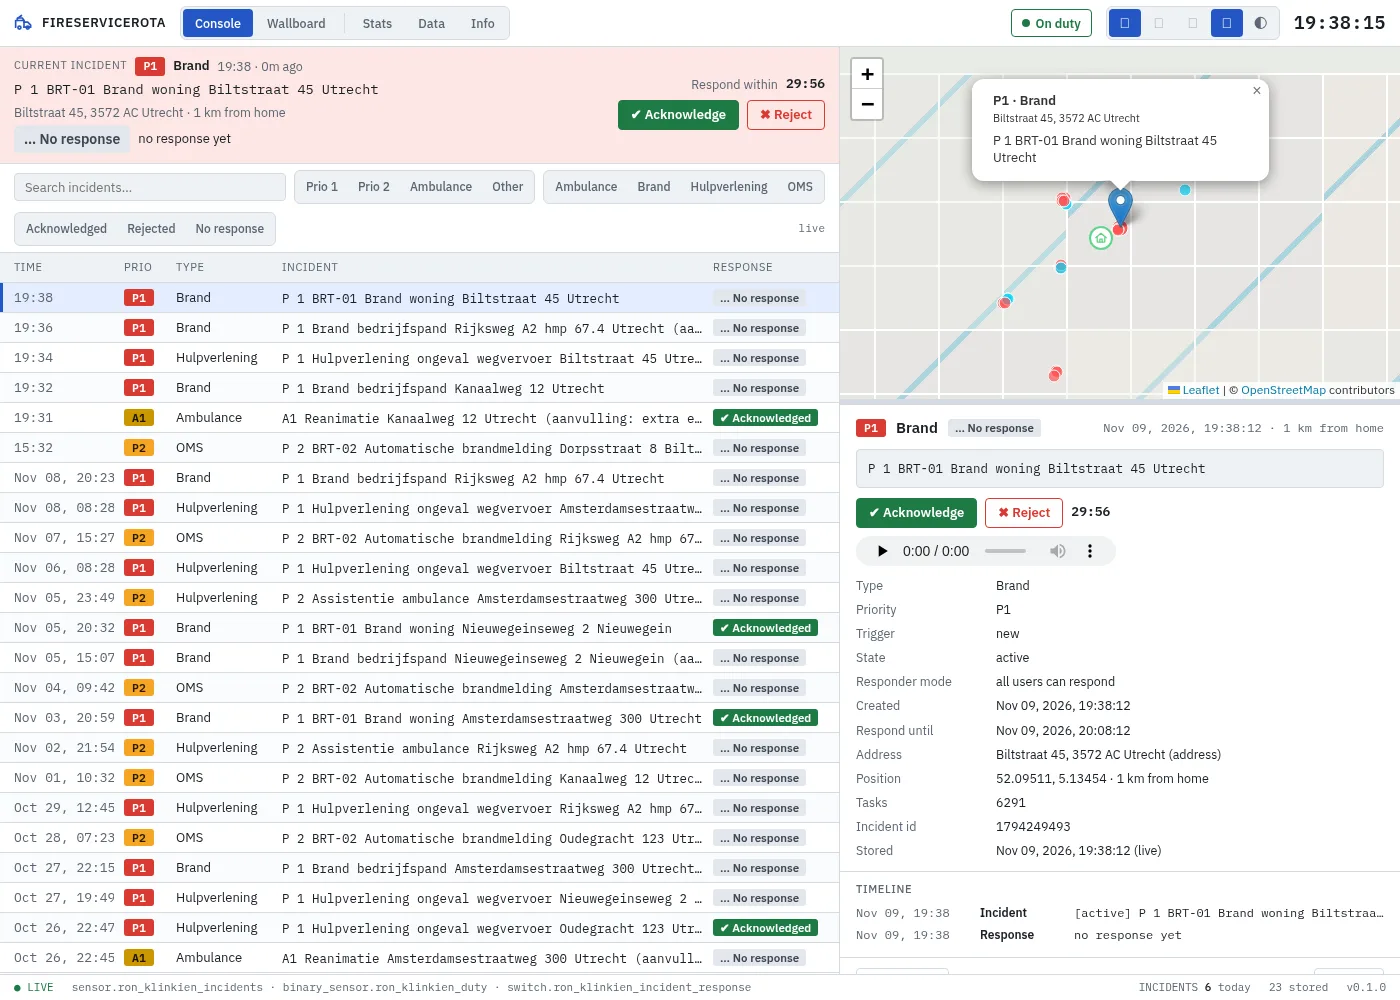
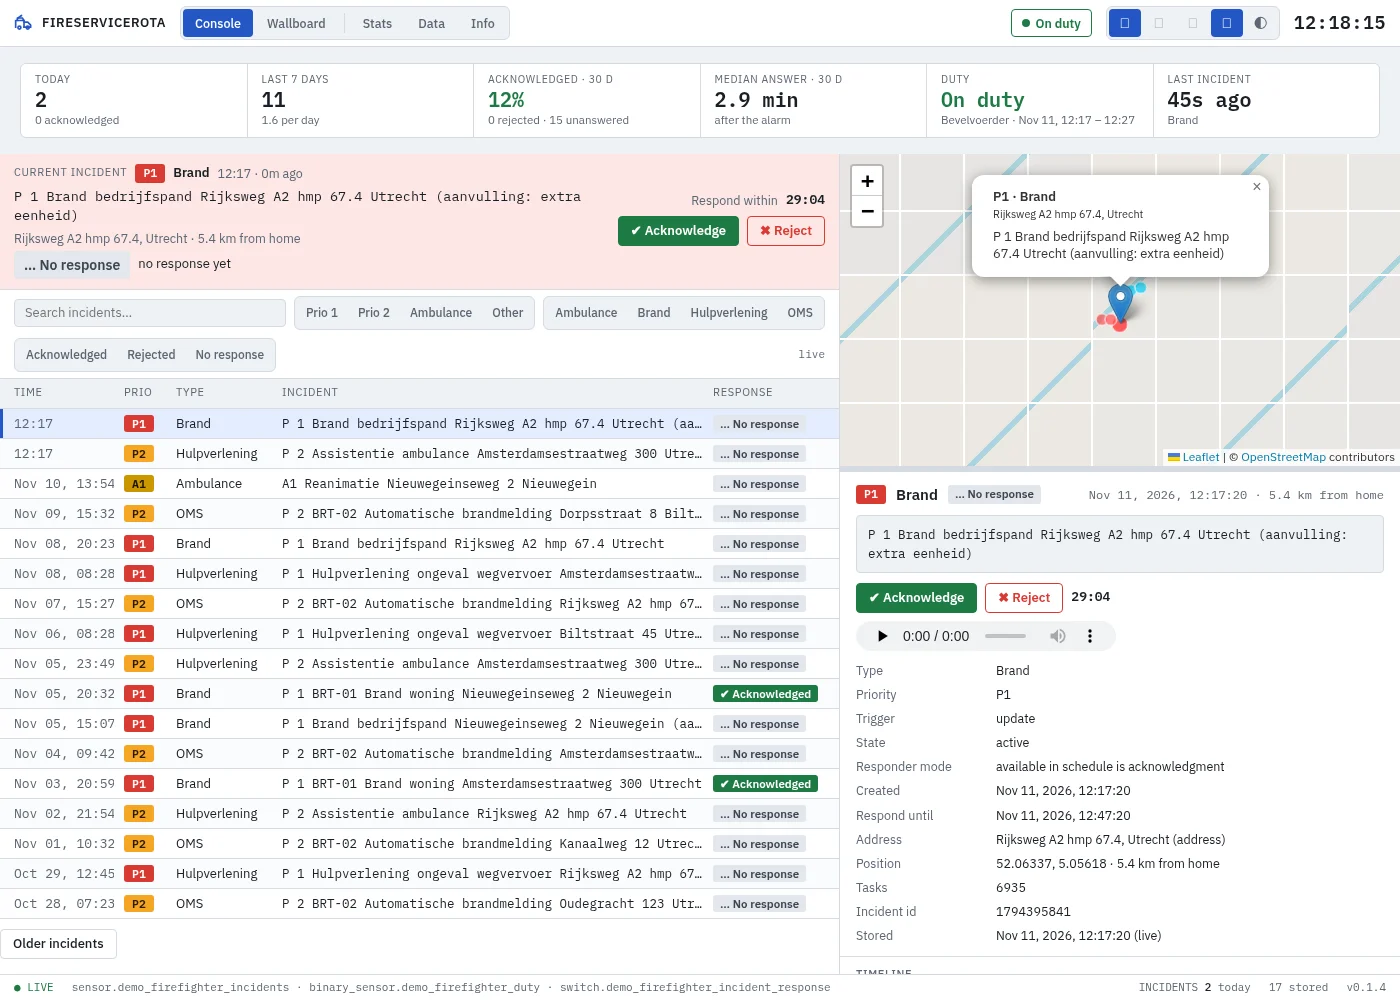
GoodWe mock follows the season; FireServiceRota mock uses a demo identity
- app-goodwe/tools/mock_inverter.py: the sun follows the simulated date at
  about 52°N (solar elevation from declination and hour angle), so a November
  day gives ~3 kWh like the real forecast instead of summer production;
  MOCK_SOC sets the battery's starting charge
- app-goodwe screenshots retaken: a November day, numbers consistent with
  the forecast, the battery and the grid
- app-fireservicerota/tools/mock_ha.py: "Demo Firefighter" entities and
  names instead of a real person's
- app-fireservicerota screenshots retaken with the demo identity; Wallboard
  caption matches the current layout

diff --git a/app-fireservicerota/tools/mock_ha.py b/app-fireservicerota/tools/mock_ha.py
@@ -32,14 +32,14 @@ DUTY_SECONDS = int(os.environ.get("FSR_MOCK_DUTY_SECONDS", "600"))
 HISTORY_DAYS = 14
 DATA_DIR = Path(os.environ.get("FSR_DATA_DIR", "/tmp/fsr-mock"))
 
-INCIDENTS = "sensor.ron_klinkien_incidents"
-DUTY = "binary_sensor.ron_klinkien_duty"
-RESPONSE = "switch.ron_klinkien_incident_response"
+INCIDENTS = "sensor.demo_firefighter_incidents"
+DUTY = "binary_sensor.demo_firefighter_duty"
+RESPONSE = "switch.demo_firefighter_incident_response"
 REGISTRY = [
     {
         "entity_id": INCIDENTS,
         "platform": "fireservicerota",
-        "unique_id": "ron@example.com_Incidents",
+        "unique_id": "demo@example.com_Incidents",
         "translation_key": "incidents",
         "config_entry_id": "mockentry",
         "disabled_by": None,
@@ -47,7 +47,7 @@ REGISTRY = [
     {
         "entity_id": DUTY,
         "platform": "fireservicerota",
-        "unique_id": "ron@example.com_Duty",
+        "unique_id": "demo@example.com_Duty",
         "translation_key": "duty",
         "config_entry_id": "mockentry",
         "disabled_by": None,
@@ -55,7 +55,7 @@ REGISTRY = [
     {
         "entity_id": RESPONSE,
         "platform": "fireservicerota",
-        "unique_id": "ron@example.com_Response",
+        "unique_id": "demo@example.com_Response",
         "translation_key": "incident_response",
         "config_entry_id": "mockentry",
         "disabled_by": None,
@@ -227,12 +227,12 @@ class MockHomeAssistant:
             "skill_ids": [3, 7],
             "type": "standby_duty",
             "assigned_function": "Bevelvoerder" if on else None,
-            "friendly_name": "Ron Klinkien Duty",
+            "friendly_name": "Demo Firefighter Duty",
         }
 
     def _response_attrs(self, status: str | None, responded: datetime | None, incident_start: datetime) -> dict:
         return {
-            "user_name": "Ron Klinkien",
+            "user_name": "Demo Firefighter",
             "assigned_skill_ids": [3],
             "responded_at": local_iso(responded) if responded else None,
             "start_time": local_iso(incident_start),
@@ -241,7 +241,7 @@ class MockHomeAssistant:
             "arrived_at_station": False,
             "available_at_incident_creation": True,
             "active_duty_function_ids": [12],
-            "friendly_name": "Ron Klinkien Incident response",
+            "friendly_name": "Demo Firefighter Incident response",
         }
 
     def _seed(self) -> None:
@@ -251,7 +251,7 @@ class MockHomeAssistant:
         first = today - timedelta(days=HISTORY_DAYS)
         self._set(DUTY, "off", self._duty_attrs(False, first, first), when=first, record=False)
         self._set(
-            RESPONSE, "unavailable", {"friendly_name": "Ron Klinkien Incident response"}, when=first, record=False
+            RESPONSE, "unavailable", {"friendly_name": "Demo Firefighter Incident response"}, when=first, record=False
         )
         for d in range(HISTORY_DAYS + 1):
             day = first + timedelta(days=d)
@@ -265,7 +265,7 @@ class MockHomeAssistant:
                     self._set(
                         RESPONSE,
                         "unknown",
-                        {"friendly_name": "Ron Klinkien Incident response"},
+                        {"friendly_name": "Demo Firefighter Incident response"},
                         when=start,
                         record=False,
                     )
@@ -354,9 +354,9 @@ class MockHomeAssistant:
         on = not self._on_duty()
         self._set(DUTY, "on" if on else "off", self._duty_attrs(on, now, now + timedelta(seconds=DUTY_SECONDS)))
         if on:
-            self._set(RESPONSE, "unknown", {"friendly_name": "Ron Klinkien Incident response"})
+            self._set(RESPONSE, "unknown", {"friendly_name": "Demo Firefighter Incident response"})
         else:
-            self._set(RESPONSE, "unavailable", {"friendly_name": "Ron Klinkien Incident response"})
+            self._set(RESPONSE, "unavailable", {"friendly_name": "Demo Firefighter Incident response"})
         logger.info(f"Mock: {'on' if on else 'off'} duty")
 
     async def _arrive_later(self) -> None:

diff --git a/app-goodwe/tools/mock_inverter.py b/app-goodwe/tools/mock_inverter.py
@@ -3,9 +3,11 @@
     GOODWE_MOCK_INVERTER=tools.mock_inverter GOODWE_DATA_DIR=/tmp/goodwe python3 -m src
 
 It simulates a sunny day on fast-forward (one simulated day per real hour by default,
-MOCK_SPEED sets the factor), a house with a varying load, and a battery that charges
-from the surplus and discharges at night, following the DoD, charge current and export
-limit that are written to it, so the controller's behaviour can be watched.
+MOCK_SPEED sets the factor) with the sun of the simulated date at about 52°N, so a
+November day gives a fraction of a June day; a house with a varying load; and a battery
+(MOCK_SOC sets where it starts, 55% by default) that charges from the surplus and
+discharges at night, following the DoD, charge current and export limit that are written
+to it, so the controller's behaviour can be watched.
 """
 
 import math
@@ -16,6 +18,21 @@ from datetime import datetime
 
 SPEED = float(os.environ.get("MOCK_SPEED", "24"))
 CAPACITY_WH = 10000.0
+PEAK_W = 4000.0  # the panels, in full sun overhead
+LATITUDE = math.radians(52.1)
+SOLAR_NOON = 12.7  # local clock hour, Central European winter time at about 5°E
+
+
+def sun_height(when: datetime) -> float:
+    """Sine of the sun's elevation at `when`: 0 or less at night, highest at midsummer noon."""
+    declination = math.radians(-23.44) * math.cos(2 * math.pi / 365 * (when.timetuple().tm_yday + 10))
+    hour = when.hour + when.minute / 60 + when.second / 3600
+    if time.localtime(when.timestamp()).tm_isdst:
+        hour -= 1
+    hour_angle = math.radians(15 * (hour - SOLAR_NOON))
+    return math.sin(LATITUDE) * math.sin(declination) + math.cos(LATITUDE) * math.cos(declination) * math.cos(
+        hour_angle
+    )
 
 
 def connect():
@@ -35,7 +52,7 @@ class ES:
 
     def __init__(self):
         self.started = time.time()
-        self.soc = 55.0
+        self.soc = float(os.environ.get("MOCK_SOC", "55"))  # the battery at start
         self.settings = {
             "dod": 80,
             "grid_export_limit": 6000,
@@ -75,9 +92,10 @@ class ES:
         if now.date() != self.day_of:
             self.day_of, self.e_day = now.date(), 0.0
 
-        daylight = max(0.0, math.sin((hour - 6) / 13 * math.pi)) if 6 <= hour <= 19 else 0.0
+        # Low sun gives much less than its height suggests (longer path through the air)
+        daylight = max(0.0, sun_height(now)) ** 1.5
         cloud = 0.75 + 0.25 * math.sin(hour * 2.1 + now.day)
-        potential = 3600 * daylight * cloud
+        potential = PEAK_W * daylight * cloud
         load = 350 + 250 * (1 + math.sin(hour / 24 * 2 * math.pi * 2 + 1)) + random.uniform(-40, 40)
         if 17 <= hour <= 22:
             load += 900

diff --git a/app-fireservicerota/README.md b/app-fireservicerota/README.md
@@ -31,7 +31,7 @@ records stays in the app's data folder and is included in your Home Assistant ba
 **Console, dark theme** — follows Home Assistant's light/dark mode
 ![Console view in the dark theme](https://raw.githubusercontent.com/cyberjunky/home-assistant-apps/main/app-fireservicerota/screenshots/console-dark.webp)
 
-**Wallboard** — the current incident large with the countdown and answer buttons, the map, your duty, the last 48 hours and a ticker of recent incidents
+**Wallboard** — the current incident large with the countdown and answer buttons, the map, your duty, incidents per hour over the last 48 hours and the last 10 calls
 ![Wallboard view](https://raw.githubusercontent.com/cyberjunky/home-assistant-apps/main/app-fireservicerota/screenshots/wallboard-1280x800.webp)
 
 **Stats** — totals and response rates, incidents per day, by type and priority, busiest hours and weekdays, duty periods
